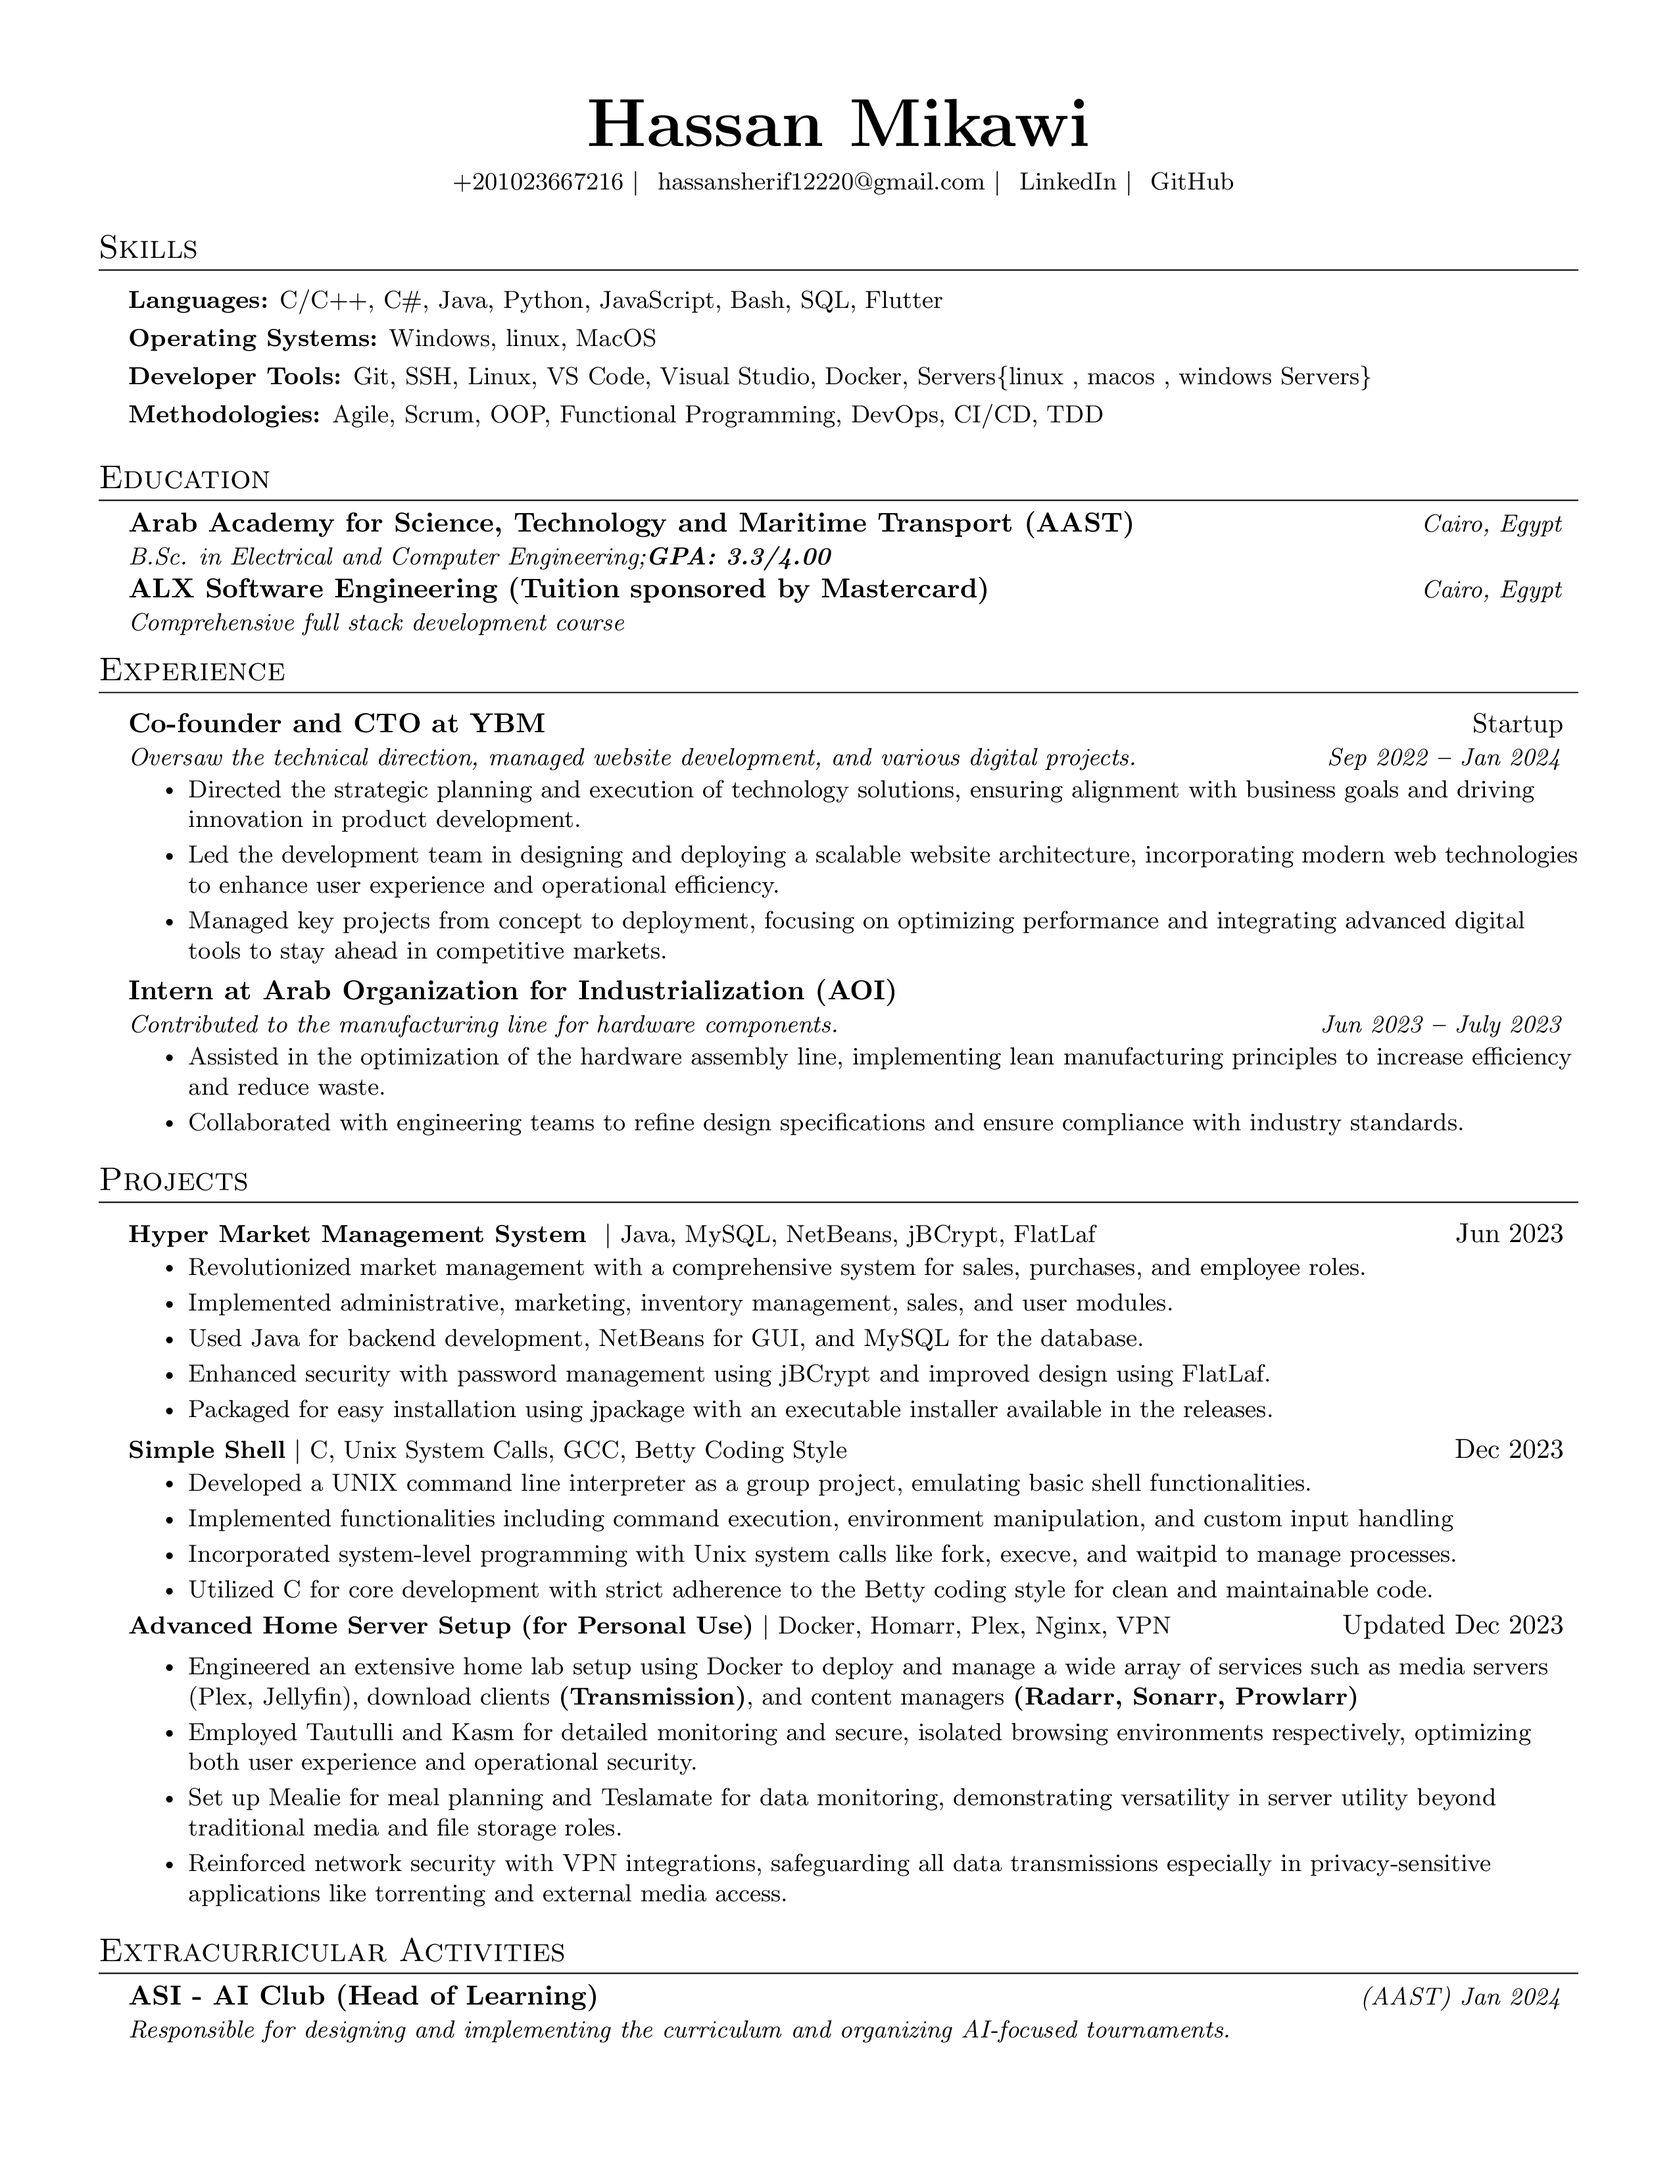
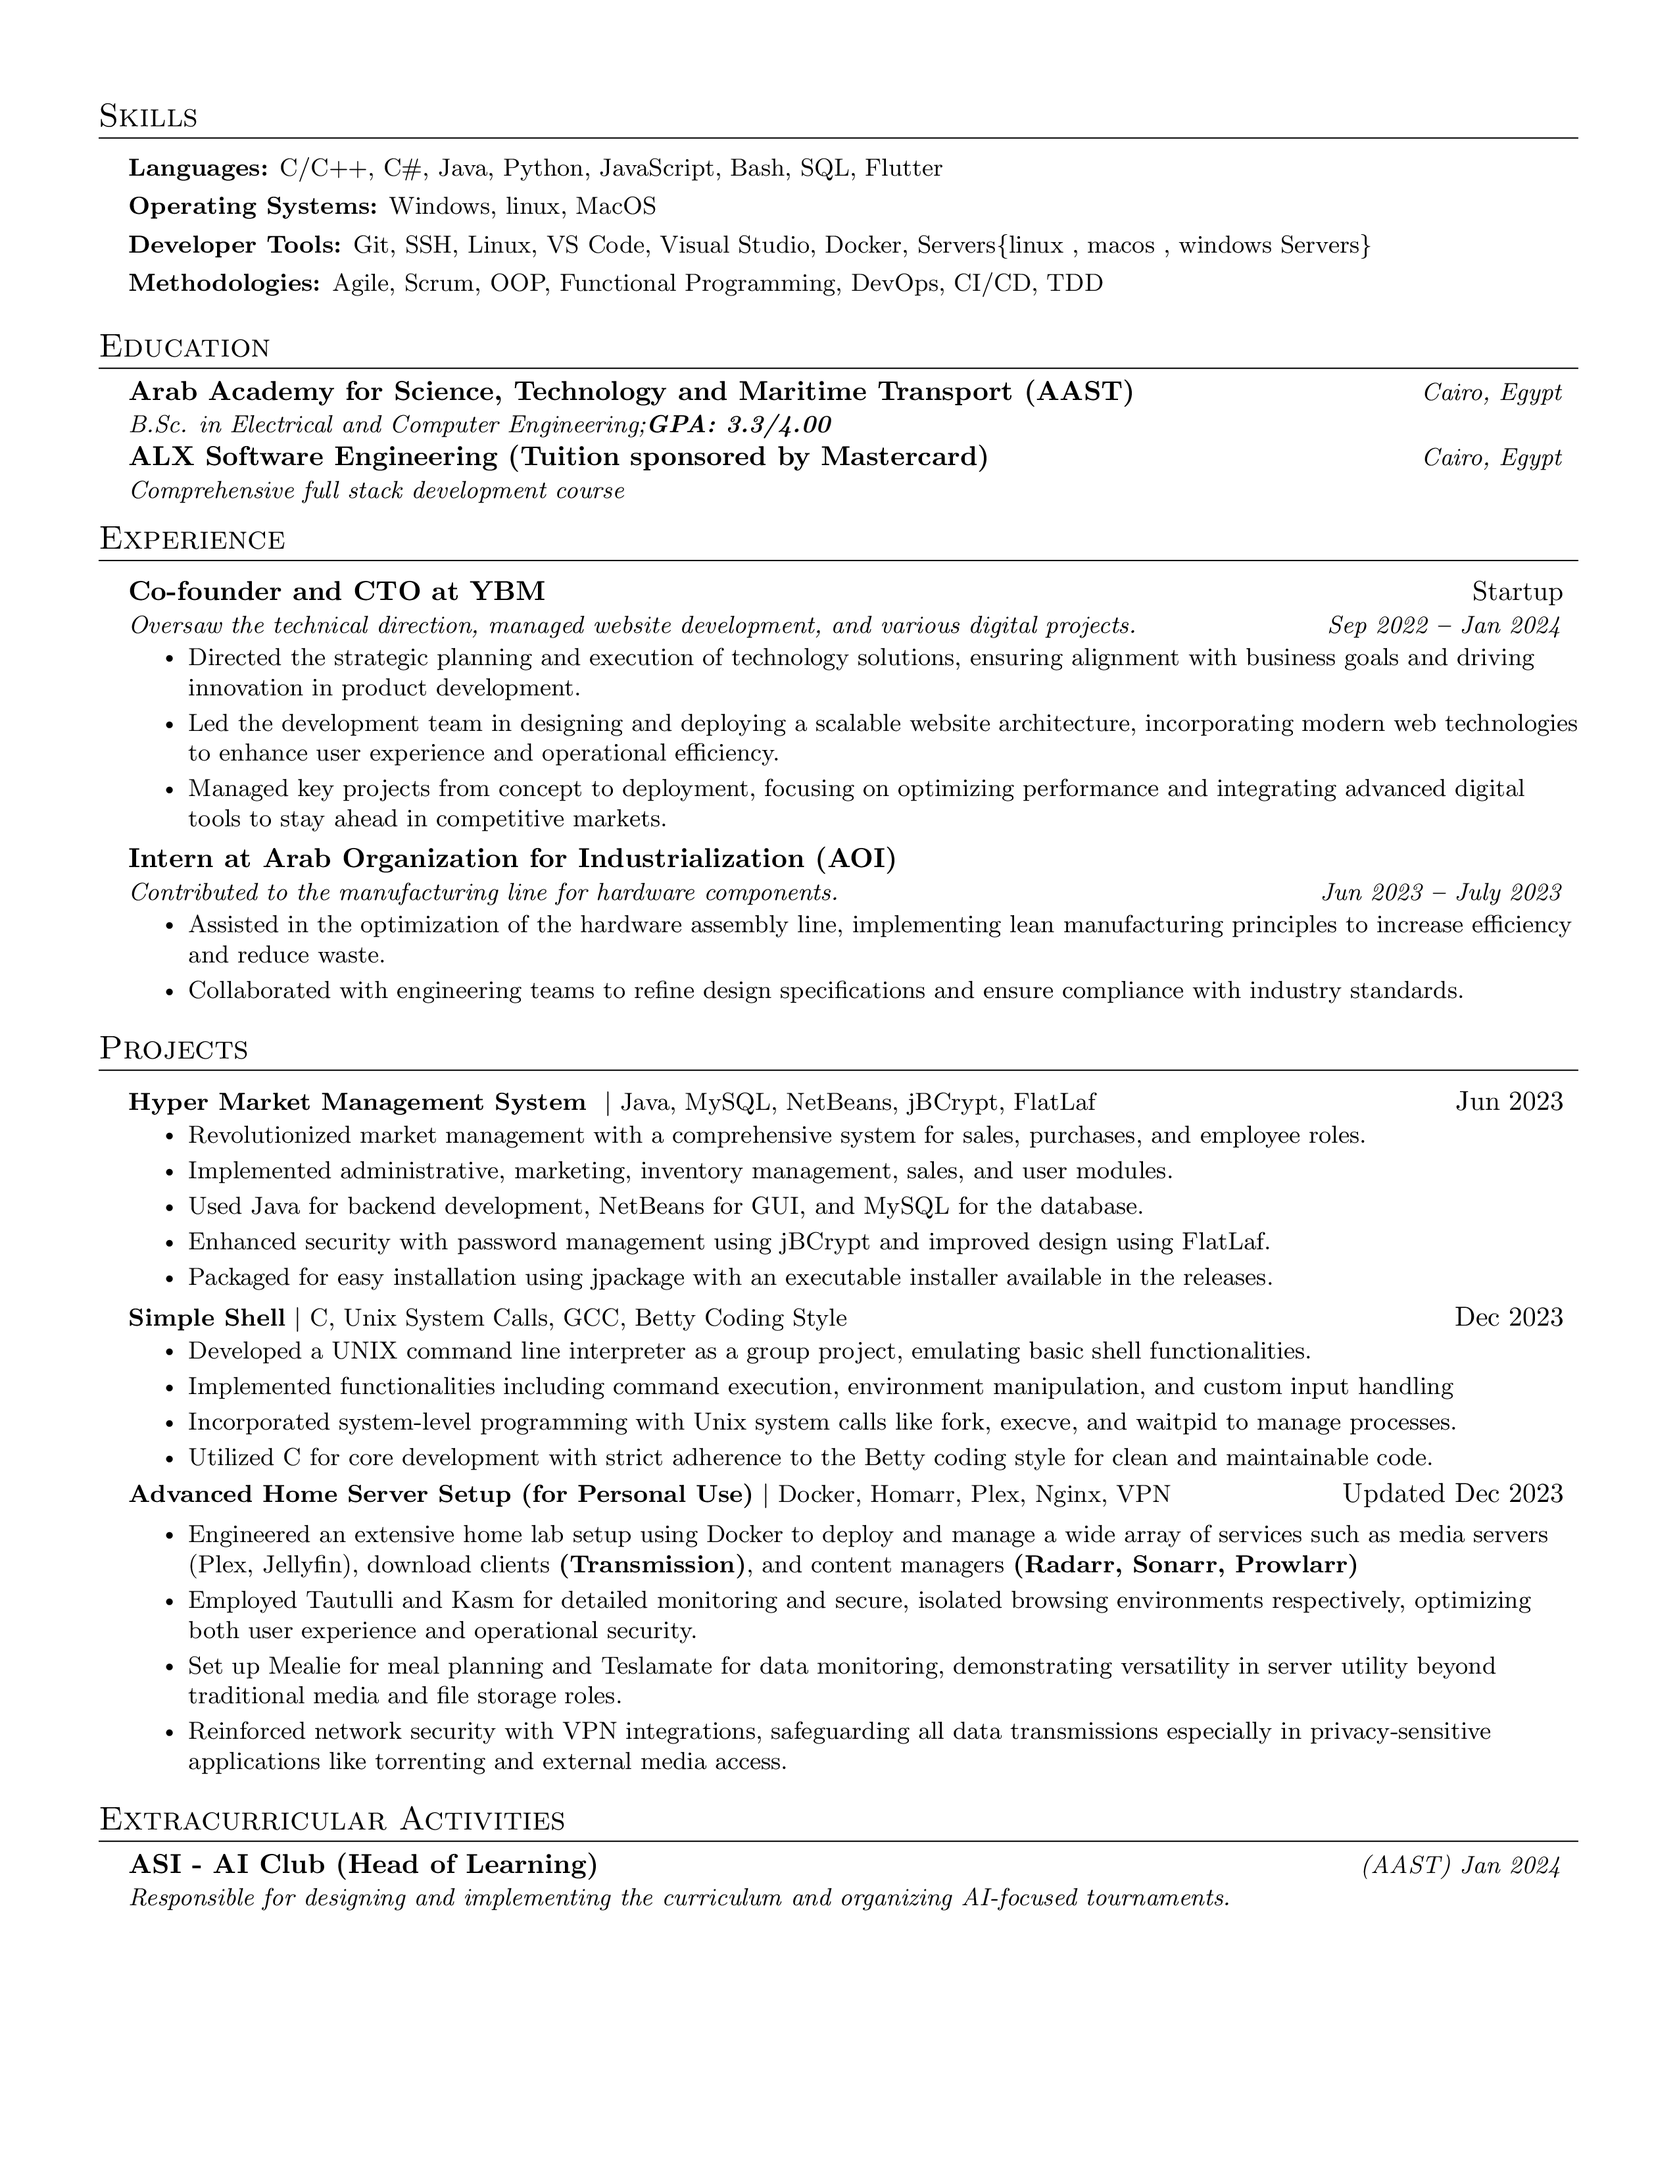
Update CV

diff --git a/mikawi_CV.tex b/mikawi_CV.tex
@@ -125,21 +125,21 @@
 
 %---------- HEADING ----------
 
-\begin{center}
-    \textbf{\Huge \scshape Hassan Mikawi} \\ \vspace{5pt}
-    \small
-    \hspace{.5pt} \href{tel:+201023667216}{+201023667216}
-    $|$
-    \hspace{.5pt} \href{mailto:hassansherif12220@gmail.com}{hassansherif12220@gmail.com}
-    $|$
-    \hspace{.5pt} \href{https://www.linkedin.com/in/hassan-mikawi-1314b9238/}{LinkedIn}
-    $|$
-    \hspace{.5pt} \href{https://github.com/Hassan220022}{GitHub}
-    % $|$
-    % \faGlobe \hspace{.5pt} \href{https://arasgungore.github.io}{Portfolio}
-    % $|$
-    % \faMapMarker \hspace{.5pt} \href{https://www.google.com/maps/place/Arab+Academy+For+Science,+Technology+%26+Maritime+Transport/@30.0954357,31.3711535,17z/data=!4m15!1m8!3m7!1s0x1458161683934e59:0x4567a95d150917ef!2sArab+Academy+for+Science,+Technology+%26+Maritime+Transport+-+Engineering+Building+B,+Sheraton+Al+Matar,+El+Nozha,+Cairo+Governorate+4471314!3b1!8m2!3d30.0954357!4d31.3737284!16s%2Fg%2F11_scdrcm!3m5!1s0x1458161427e28abb:0x6258e0ca55113e35!8m2!3d30.0962322!4d31.3736879!16s%2Fg%2F1th3qtl3?entry=ttu}{Cairo, Egypt}
-\end{center}
+% \begin{center}
+%     \textbf{\Huge \scshape Hassan Mikawi} \\ \vspace{5pt}
+%     \small
+%     \hspace{.5pt} \href{tel:+201023667216}{+201023667216}
+%     $|$
+%     \hspace{.5pt} \href{mailto:hassansherif12220@gmail.com}{hassansherif12220@gmail.com}
+%     $|$
+%     \hspace{.5pt} \href{https://www.linkedin.com/in/hassan-mikawi-1314b9238/}{LinkedIn}
+%     $|$
+%     \hspace{.5pt} \href{https://github.com/Hassan220022}{GitHub}
+%     % $|$
+%     % \faGlobe \hspace{.5pt} \href{https://arasgungore.github.io}{Portfolio}
+%     % $|$
+%     % \faMapMarker \hspace{.5pt} \href{https://www.google.com/maps/place/Arab+Academy+For+Science,+Technology+%26+Maritime+Transport/@30.0954357,31.3711535,17z/data=!4m15!1m8!3m7!1s0x1458161683934e59:0x4567a95d150917ef!2sArab+Academy+for+Science,+Technology+%26+Maritime+Transport+-+Engineering+Building+B,+Sheraton+Al+Matar,+El+Nozha,+Cairo+Governorate+4471314!3b1!8m2!3d30.0954357!4d31.3737284!16s%2Fg%2F11_scdrcm!3m5!1s0x1458161427e28abb:0x6258e0ca55113e35!8m2!3d30.0962322!4d31.3736879!16s%2Fg%2F1th3qtl3?entry=ttu}{Cairo, Egypt}
+% \end{center}
 
 
 
